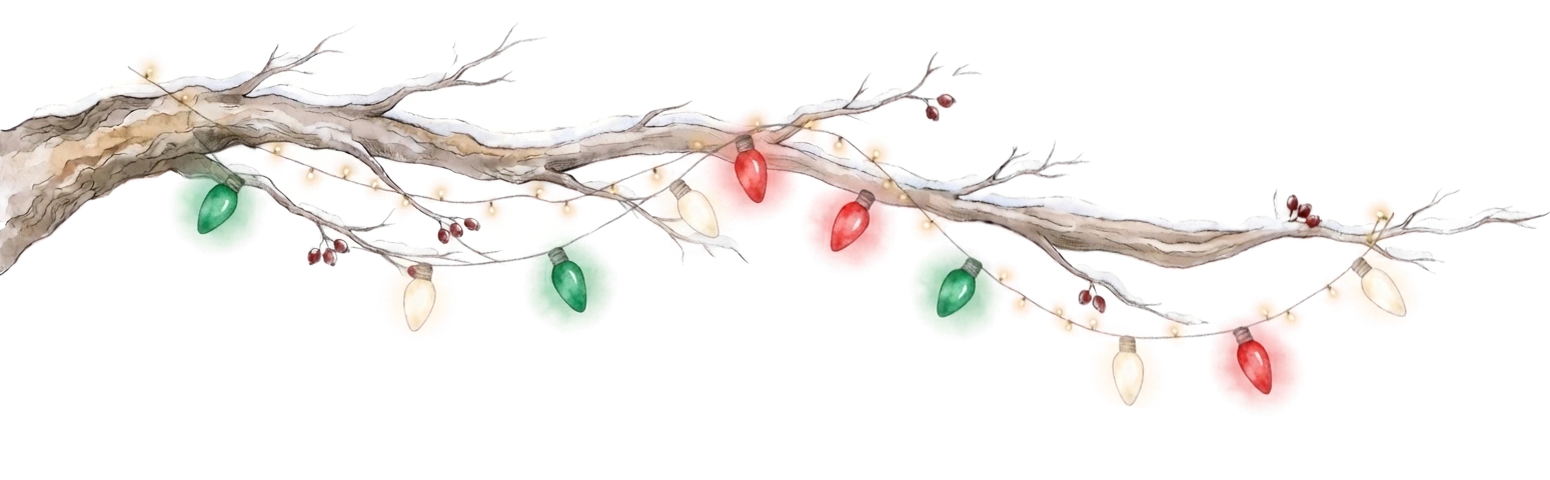
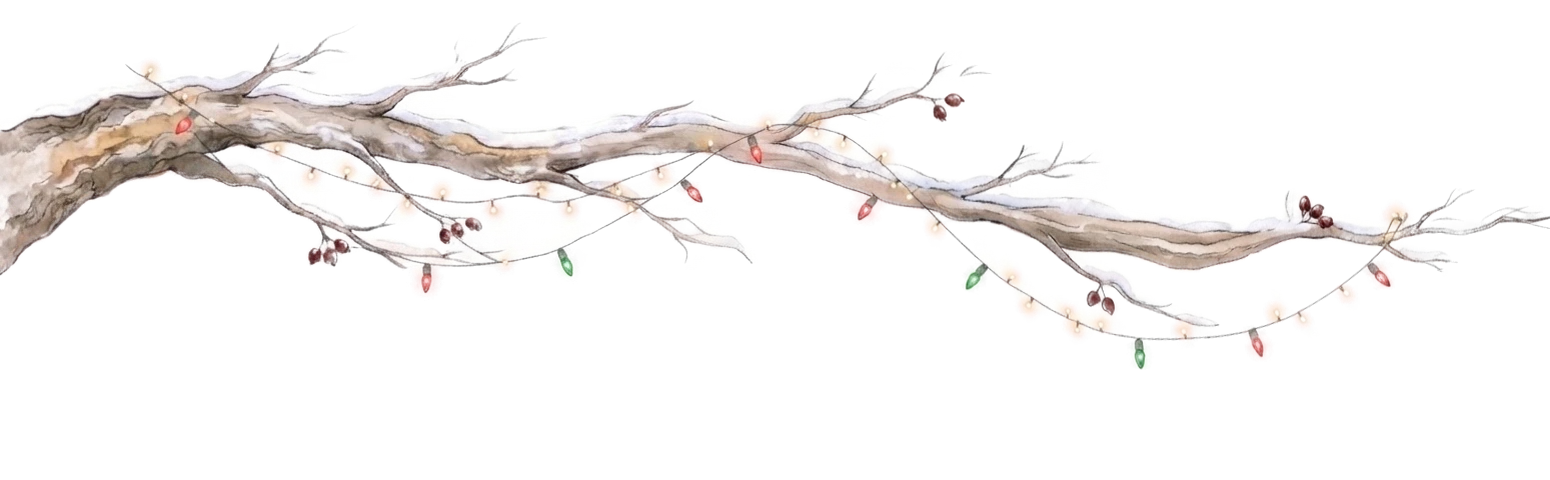
Little Hollow Christmas Day: smaller bulbs on the branch; the snowman stands taller to the right of the basket (the basket shifts left that day to make room)
Claude-Session: https://claude.ai/code/session_019MTJUgo2eSoe3fVWqeMEns

diff --git a/index.html b/index.html
@@ -13,7 +13,7 @@
 <link rel="apple-touch-icon" href="apple-touch-icon.png">
 <link rel="icon" type="image/png" href="apple-touch-icon.png">
 <style>html,body{background:#252D2C;height:100%;margin:0}</style>
-<script>window.__plannerBuild = 'Nov 25, 4:40 PM';</script>
+<script>window.__plannerBuild = 'Nov 25, 4:46 PM';</script>
 <script src="dc-runtime.js"></script>
 </head>
 <body>
@@ -5750,7 +5750,7 @@ class Component extends DCLogic {
   // Theme accent colors are CSS variables (--tXXXXXX, named after the Flowery color they replace).
   // Theme packages: each is a self-contained theme.json (+ art) — built-in ones are bundled below; later, downloaded ones join the same list.
   themePackages() {
-    if (!this._pkgs) { this._pkgs = {}; const arr = /*THEME-PACKAGES*/[{"format":1,"id":"littlehollow","version":12,"kind":"storybook","updated":"2026-11-25","notes":["Spring blossom set","A squirrel on the branch","New friend: a robin who fluffs and shakes, then lets a blossom fall","New friend: a hedgehog by the basket who sniffs and smiles when a blossom lands","New friend: a caterpillar on the branch who reaches up and nudges a blossom loose","New friend: a bee who loops around her flower while a blossom drifts down","The basket under the branch fills with blossoms as you finish the day's Must do and Should do, and starts fresh each morning","Winter: a snowy branch with red berries, a snowy meadow, and a basket that fills with pinecones (December to February)","New winter friends: a chickadee who puffs up against the cold, and a bunny in a scarf whose ears perk up","More winter friends: a cardinal who hops, a sleepy bear cub who peeks with one eye, and a fox curled in her tail","Christmas: fairy lights on Christmas Eve; colorful lights and a snowman friend on Christmas Day"],"name":"Little Hollow","blurb":"A little tree, a meadow and woodland friends who visit as the seasons change.","storybook":true,"perks":["Animated","Changes with the seasons","Rotating animal friends"],"card":"card.webp","art":"img","binder":{"cover":"linen","rings":"brass"},"tabPal":["#B06F80","#879A76","#9C8270","#B48A5A","#7E5A6E"],"tabs":{"day":["#F4D9DE","#A0526A"],"week":["#F6DCCB","#B5683F"],"month":["#DCE6D3","#5E7F55"],"desk":["#F3E6B8","#8F7020"],"goals":["#E4DAEE","#6E5A94"],"school":["#D6E2EC","#4C6F8F"],"journal":["#ECD6E0","#8A4E6B"]},"vars":{"FBEDEE":"#F6EEE9","F6EDEF":"#F5EFEA","FAEAEE":"#F6EDE8","F3E6EA":"#F1E8E3","E2B9C4":"#DCC6BF","E7B7C2":"#DFC8C1","EBC3CD":"#E6D2CB"},"swatches":{"red":["Blossom","#B5707A"],"yellow":["Honey","#C29A4E"],"blue":["Dusk","#7A8FA6"],"green":["Sage","#879A76"],"orange":["Acorn","#B5835A"],"gray":["Taupe","#9C8270"]},"catSwatches":{"blue":["Dusk","#6E86A0"],"orange":["Acorn","#B07A52"],"green":["Sage","#77906A"],"rose":["Blossom","#A8667A"],"plum":["Plum","#6E2F43"],"gold":["Honey","#A88A44"],"teal":["Moss","#5E8E88"],"lavender":["Lilac","#8A779E"],"slate":["Stone","#7E7A74"],"brown":["Bark","#8A6A50"]},"fHead":"'Olesia', 'Dancing Script', Georgia, serif","fBody":"'Atkinson Hyperlegible', system-ui, -apple-system, sans-serif","fontFace":{"family":"Olesia","file":"olesia.woff2"},"paper":"#FBF7F1","quote":"Every blossom opens in its own time, and so will you.","quotes":["Every blossom opens in its own time, and so will you.","Small steps still bloom.","Tend to today. Tomorrow will keep.","Rest is part of growing.","One petal at a time.","You are allowed to go slowly.","Plant one good thing today."],"img":{"dir":"themes/littlehollow/","paper":"paper.webp"},"scene":{"sets":[{"id":"spring-blossom","name":"Spring blossom","months":[],"perch":0.89,"under":[{"page":"L","anchor":"spread","src":"branch-2.webp","ar":4.068,"h":226,"y":-26,"padH":190},{"page":"R","anchor":"spread","src":"branch-2.webp","ar":4.068,"h":226,"y":-26,"padH":190},{"page":"L","anchor":"spreadBottom","src":"grass.webp","h":96,"y":0},{"page":"R","anchor":"spreadBottom","src":"grass.webp","h":96,"y":0}],"extras":[{"page":"R","anchor":"bl","src":"snail.webp","w":34,"h":25,"x":300,"y":4},{"page":"R","anchor":"bl","src":"bee.webp","w":26,"h":23,"x":250,"y":58}],"pile":{"page":"R","anchor":"underPerch","x":120,"y":2,"w":84,"h":106,"states":[{"src":"basket-spring-0.webp","pct":0},{"src":"basket-spring-1.webp","pct":1},{"src":"basket-spring-2.webp","pct":34},{"src":"basket-spring-3.webp","pct":67},{"src":"basket-spring-4.webp","pct":100}],"dx":-58,"per":"day"},"item":{"name":"blossom","src":"blossom.webp","w":18,"h":17},"driftY":118},{"id":"winter-snow","name":"Winter snow","months":[12,1,2],"perch":0.89,"under":[{"page":"L","anchor":"spread","src":"branch-winter.webp","ar":4.068,"h":226,"y":-26,"padH":190},{"page":"R","anchor":"spread","src":"branch-winter.webp","ar":4.068,"h":226,"y":-26,"padH":190},{"page":"L","anchor":"spreadBottom","src":"grass-winter.webp","h":104,"y":0},{"page":"R","anchor":"spreadBottom","src":"grass-winter.webp","h":104,"y":0}],"extras":[],"pile":{"page":"R","anchor":"underPerch","x":120,"y":2,"w":84,"h":106,"states":[{"src":"basket-winter-0.webp","pct":0},{"src":"basket-winter-1.webp","pct":1},{"src":"basket-winter-2.webp","pct":34},{"src":"basket-winter-3.webp","pct":67},{"src":"basket-winter-4.webp","pct":100}],"dx":-58,"per":"day"},"item":{"name":"pinecone","src":"pinecone.webp","w":15,"h":17},"driftY":118,"quotes":["Rest is part of the season too.","Even bare branches are getting ready to bloom.","Slow and cozy still counts.","Small steps leave footprints in the snow.","Keep a little warmth for yourself today.","Quiet days are growing days.","One pinecone at a time."]}],"casts":[{"id":"squirrels","name":"A squirrel on the branch","over":[{"page":"R","anchor":"onStrip","src":"squirrel-toss-empty.webp","w":126,"h":74,"x":56,"y":54,"holds":{"x":-2,"y":49}}],"moment":"drop","sets":["autumn-leaves"]},{"id":"bee","name":"A bee and her flower","over":[{"page":"R","anchor":"bl","src":"bee-flower.webp","w":36,"h":102,"x":150,"y":4},{"page":"R","anchor":"bl","src":"bee-wings-up.webp","srcFlap":"bee-wings-down.webp","w":34,"h":33,"x":166,"y":86,"buzz":true}],"hide":["bee.webp"],"sets":["spring-blossom"]},{"id":"robin","name":"A robin on the branch","moment":"drop","over":[{"page":"R","anchor":"onStrip","src":"robin-1.webp","srcFlap":"robin-2.webp","shake":true,"w":90,"h":78,"x":56,"y":53,"holds":{"x":6,"y":21}}],"sets":["spring-blossom"]},{"id":"hedgehog","name":"A hedgehog by the basket","over":[{"page":"R","anchor":"byPile","src":"hedgehog-1.webp","w":66,"h":48,"x":6,"y":3,"frames":[{"src":"hedgehog-2.webp","from":1.3,"to":2.3},{"src":"hedgehog-3.webp","from":2.3,"to":3.4}]}],"hide":["snail.webp"],"sets":["spring-blossom"]},{"id":"caterpillar","name":"A caterpillar on the branch","dropDelay":0.75,"over":[{"page":"R","anchor":"onStrip","src":"caterpillar-1.webp","w":74,"h":61,"x":56,"y":69,"frames":[{"src":"caterpillar-2.webp","from":0.05,"to":1.0},{"src":"caterpillar-3.webp","from":1.0,"to":2.7}]}],"nudge":{"x":58,"y":46},"sets":["spring-blossom"]},{"id":"chickadee","name":"A chickadee on the branch","moment":"drop","sets":["winter-snow"],"over":[{"page":"R","anchor":"onStrip","src":"chickadee-1.webp","srcFlap":"chickadee-2.webp","shake":true,"w":84,"h":57,"x":56,"y":61,"holds":{"x":0,"y":8}}]},{"id":"bear","name":"A sleepy bear cub","sets":["winter-snow"],"over":[{"page":"R","anchor":"byPile","src":"bear-1.webp","w":82,"h":55,"x":6,"y":3,"frames":[{"src":"bear-2.webp","from":1.3,"to":2.3},{"src":"bear-3.webp","from":2.3,"to":3.4}]}]},{"id":"cardinal","name":"A cardinal on the branch","moment":"drop","sets":["winter-snow"],"dropDelay":0.1,"over":[{"page":"R","anchor":"onStrip","src":"cardinal-1.webp","w":90,"h":72,"x":56,"y":46,"holds":{"x":-4,"y":29},"xfade":0.08,"frames":[{"src":"cardinal-2.webp","from":0.0,"to":0.4},{"src":"cardinal-3.webp","from":0.4,"to":1.3}]}]},{"id":"bunny","name":"A bunny in a scarf","sets":["winter-snow"],"over":[{"page":"R","anchor":"byPile","src":"bunny-1.webp","w":64,"h":73,"x":6,"y":3,"frames":[{"src":"bunny-2.webp","from":1.3,"to":2.3},{"src":"bunny-3.webp","from":2.3,"to":3.4}]}]},{"id":"fox","name":"A fox curled in her tail","sets":["winter-snow"],"over":[{"page":"R","anchor":"byPile","src":"fox-1.webp","w":82,"h":73,"x":6,"y":3,"frames":[{"src":"fox-2.webp","from":1.3,"to":2.3},{"src":"fox-3.webp","from":2.3,"to":3.4}]}]},{"id":"snowman","name":"A snowman (Christmas Day)","sets":[],"over":[{"page":"R","anchor":"byPile","src":"snowman-1.webp","w":60,"h":89,"x":4,"y":3,"frames":[{"src":"snowman-2.webp","from":1.3,"to":2.3},{"src":"snowman-3.webp","from":2.3,"to":3.4}]}]}],"quote":"underDate","quoteClear":170,"quoteY":88,"specials":[{"id":"christmas-eve","name":"Christmas Eve","date":"12-24","sets":["winter-snow"],"swap":{"branch-winter.webp":{"src":"branch-xmas-eve.webp","ar":3.229,"h":285}},"quotes":["The quietest night is full of little lights."]},{"id":"christmas","name":"Christmas Day","date":"12-25","sets":["winter-snow"],"cast":"snowman","swap":{"branch-winter.webp":{"src":"branch-xmas-day.webp","ar":3.229,"h":285,"padH":262}},"quotes":["Merry Christmas. Rest is a gift too."]}]}}]/*END-THEME-PACKAGES*/; arr.forEach(p => { this._pkgs[p.id] = p; }); }
+    if (!this._pkgs) { this._pkgs = {}; const arr = /*THEME-PACKAGES*/[{"format":1,"id":"littlehollow","version":12,"kind":"storybook","updated":"2026-11-25","notes":["Spring blossom set","A squirrel on the branch","New friend: a robin who fluffs and shakes, then lets a blossom fall","New friend: a hedgehog by the basket who sniffs and smiles when a blossom lands","New friend: a caterpillar on the branch who reaches up and nudges a blossom loose","New friend: a bee who loops around her flower while a blossom drifts down","The basket under the branch fills with blossoms as you finish the day's Must do and Should do, and starts fresh each morning","Winter: a snowy branch with red berries, a snowy meadow, and a basket that fills with pinecones (December to February)","New winter friends: a chickadee who puffs up against the cold, and a bunny in a scarf whose ears perk up","More winter friends: a cardinal who hops, a sleepy bear cub who peeks with one eye, and a fox curled in her tail","Christmas: fairy lights on Christmas Eve; colorful lights and a snowman friend on Christmas Day"],"name":"Little Hollow","blurb":"A little tree, a meadow and woodland friends who visit as the seasons change.","storybook":true,"perks":["Animated","Changes with the seasons","Rotating animal friends"],"card":"card.webp","art":"img","binder":{"cover":"linen","rings":"brass"},"tabPal":["#B06F80","#879A76","#9C8270","#B48A5A","#7E5A6E"],"tabs":{"day":["#F4D9DE","#A0526A"],"week":["#F6DCCB","#B5683F"],"month":["#DCE6D3","#5E7F55"],"desk":["#F3E6B8","#8F7020"],"goals":["#E4DAEE","#6E5A94"],"school":["#D6E2EC","#4C6F8F"],"journal":["#ECD6E0","#8A4E6B"]},"vars":{"FBEDEE":"#F6EEE9","F6EDEF":"#F5EFEA","FAEAEE":"#F6EDE8","F3E6EA":"#F1E8E3","E2B9C4":"#DCC6BF","E7B7C2":"#DFC8C1","EBC3CD":"#E6D2CB"},"swatches":{"red":["Blossom","#B5707A"],"yellow":["Honey","#C29A4E"],"blue":["Dusk","#7A8FA6"],"green":["Sage","#879A76"],"orange":["Acorn","#B5835A"],"gray":["Taupe","#9C8270"]},"catSwatches":{"blue":["Dusk","#6E86A0"],"orange":["Acorn","#B07A52"],"green":["Sage","#77906A"],"rose":["Blossom","#A8667A"],"plum":["Plum","#6E2F43"],"gold":["Honey","#A88A44"],"teal":["Moss","#5E8E88"],"lavender":["Lilac","#8A779E"],"slate":["Stone","#7E7A74"],"brown":["Bark","#8A6A50"]},"fHead":"'Olesia', 'Dancing Script', Georgia, serif","fBody":"'Atkinson Hyperlegible', system-ui, -apple-system, sans-serif","fontFace":{"family":"Olesia","file":"olesia.woff2"},"paper":"#FBF7F1","quote":"Every blossom opens in its own time, and so will you.","quotes":["Every blossom opens in its own time, and so will you.","Small steps still bloom.","Tend to today. Tomorrow will keep.","Rest is part of growing.","One petal at a time.","You are allowed to go slowly.","Plant one good thing today."],"img":{"dir":"themes/littlehollow/","paper":"paper.webp"},"scene":{"sets":[{"id":"spring-blossom","name":"Spring blossom","months":[],"perch":0.89,"under":[{"page":"L","anchor":"spread","src":"branch-2.webp","ar":4.068,"h":226,"y":-26,"padH":190},{"page":"R","anchor":"spread","src":"branch-2.webp","ar":4.068,"h":226,"y":-26,"padH":190},{"page":"L","anchor":"spreadBottom","src":"grass.webp","h":96,"y":0},{"page":"R","anchor":"spreadBottom","src":"grass.webp","h":96,"y":0}],"extras":[{"page":"R","anchor":"bl","src":"snail.webp","w":34,"h":25,"x":300,"y":4},{"page":"R","anchor":"bl","src":"bee.webp","w":26,"h":23,"x":250,"y":58}],"pile":{"page":"R","anchor":"underPerch","x":120,"y":2,"w":84,"h":106,"states":[{"src":"basket-spring-0.webp","pct":0},{"src":"basket-spring-1.webp","pct":1},{"src":"basket-spring-2.webp","pct":34},{"src":"basket-spring-3.webp","pct":67},{"src":"basket-spring-4.webp","pct":100}],"dx":-58,"per":"day"},"item":{"name":"blossom","src":"blossom.webp","w":18,"h":17},"driftY":118},{"id":"winter-snow","name":"Winter snow","months":[12,1,2],"perch":0.89,"under":[{"page":"L","anchor":"spread","src":"branch-winter.webp","ar":4.068,"h":226,"y":-26,"padH":190},{"page":"R","anchor":"spread","src":"branch-winter.webp","ar":4.068,"h":226,"y":-26,"padH":190},{"page":"L","anchor":"spreadBottom","src":"grass-winter.webp","h":104,"y":0},{"page":"R","anchor":"spreadBottom","src":"grass-winter.webp","h":104,"y":0}],"extras":[],"pile":{"page":"R","anchor":"underPerch","x":120,"y":2,"w":84,"h":106,"states":[{"src":"basket-winter-0.webp","pct":0},{"src":"basket-winter-1.webp","pct":1},{"src":"basket-winter-2.webp","pct":34},{"src":"basket-winter-3.webp","pct":67},{"src":"basket-winter-4.webp","pct":100}],"dx":-58,"per":"day"},"item":{"name":"pinecone","src":"pinecone.webp","w":15,"h":17},"driftY":118,"quotes":["Rest is part of the season too.","Even bare branches are getting ready to bloom.","Slow and cozy still counts.","Small steps leave footprints in the snow.","Keep a little warmth for yourself today.","Quiet days are growing days.","One pinecone at a time."]}],"casts":[{"id":"squirrels","name":"A squirrel on the branch","over":[{"page":"R","anchor":"onStrip","src":"squirrel-toss-empty.webp","w":126,"h":74,"x":56,"y":54,"holds":{"x":-2,"y":49}}],"moment":"drop","sets":["autumn-leaves"]},{"id":"bee","name":"A bee and her flower","over":[{"page":"R","anchor":"bl","src":"bee-flower.webp","w":36,"h":102,"x":150,"y":4},{"page":"R","anchor":"bl","src":"bee-wings-up.webp","srcFlap":"bee-wings-down.webp","w":34,"h":33,"x":166,"y":86,"buzz":true}],"hide":["bee.webp"],"sets":["spring-blossom"]},{"id":"robin","name":"A robin on the branch","moment":"drop","over":[{"page":"R","anchor":"onStrip","src":"robin-1.webp","srcFlap":"robin-2.webp","shake":true,"w":90,"h":78,"x":56,"y":53,"holds":{"x":6,"y":21}}],"sets":["spring-blossom"]},{"id":"hedgehog","name":"A hedgehog by the basket","over":[{"page":"R","anchor":"byPile","src":"hedgehog-1.webp","w":66,"h":48,"x":6,"y":3,"frames":[{"src":"hedgehog-2.webp","from":1.3,"to":2.3},{"src":"hedgehog-3.webp","from":2.3,"to":3.4}]}],"hide":["snail.webp"],"sets":["spring-blossom"]},{"id":"caterpillar","name":"A caterpillar on the branch","dropDelay":0.75,"over":[{"page":"R","anchor":"onStrip","src":"caterpillar-1.webp","w":74,"h":61,"x":56,"y":69,"frames":[{"src":"caterpillar-2.webp","from":0.05,"to":1.0},{"src":"caterpillar-3.webp","from":1.0,"to":2.7}]}],"nudge":{"x":58,"y":46},"sets":["spring-blossom"]},{"id":"chickadee","name":"A chickadee on the branch","moment":"drop","sets":["winter-snow"],"over":[{"page":"R","anchor":"onStrip","src":"chickadee-1.webp","srcFlap":"chickadee-2.webp","shake":true,"w":84,"h":57,"x":56,"y":61,"holds":{"x":0,"y":8}}]},{"id":"bear","name":"A sleepy bear cub","sets":["winter-snow"],"over":[{"page":"R","anchor":"byPile","src":"bear-1.webp","w":82,"h":55,"x":6,"y":3,"frames":[{"src":"bear-2.webp","from":1.3,"to":2.3},{"src":"bear-3.webp","from":2.3,"to":3.4}]}]},{"id":"cardinal","name":"A cardinal on the branch","moment":"drop","sets":["winter-snow"],"dropDelay":0.1,"over":[{"page":"R","anchor":"onStrip","src":"cardinal-1.webp","w":90,"h":72,"x":56,"y":46,"holds":{"x":-4,"y":29},"xfade":0.08,"frames":[{"src":"cardinal-2.webp","from":0.0,"to":0.4},{"src":"cardinal-3.webp","from":0.4,"to":1.3}]}]},{"id":"bunny","name":"A bunny in a scarf","sets":["winter-snow"],"over":[{"page":"R","anchor":"byPile","src":"bunny-1.webp","w":64,"h":73,"x":6,"y":3,"frames":[{"src":"bunny-2.webp","from":1.3,"to":2.3},{"src":"bunny-3.webp","from":2.3,"to":3.4}]}]},{"id":"fox","name":"A fox curled in her tail","sets":["winter-snow"],"over":[{"page":"R","anchor":"byPile","src":"fox-1.webp","w":82,"h":73,"x":6,"y":3,"frames":[{"src":"fox-2.webp","from":1.3,"to":2.3},{"src":"fox-3.webp","from":2.3,"to":3.4}]}]},{"id":"snowman","name":"A snowman (Christmas Day)","sets":[],"over":[{"page":"R","anchor":"byPileR","src":"snowman-1.webp","w":104,"h":154,"x":8,"y":2,"frames":[{"src":"snowman-2.webp","from":1.3,"to":2.3},{"src":"snowman-3.webp","from":2.3,"to":3.4}]}]}],"quote":"underDate","quoteClear":170,"quoteY":88,"specials":[{"id":"christmas-eve","name":"Christmas Eve","date":"12-24","sets":["winter-snow"],"swap":{"branch-winter.webp":{"src":"branch-xmas-eve.webp","ar":3.229,"h":285}},"quotes":["The quietest night is full of little lights."]},{"id":"christmas","name":"Christmas Day","date":"12-25","sets":["winter-snow"],"cast":"snowman","swap":{"branch-winter.webp":{"src":"branch-xmas-day.webp","ar":3.229,"h":285,"padH":240}},"quotes":["Merry Christmas. Rest is a gift too."],"pile":{"dx":-150}}]}}]/*END-THEME-PACKAGES*/; arr.forEach(p => { this._pkgs[p.id] = p; }); }
     return this._pkgs;
   }
   themeDef(id) {
@@ -5881,6 +5881,11 @@ class Component extends DCLogic {
         // sits on the strip at a set point along it, so it stays on the branch at any width
         const w = P(ly.w), left = Math.min(geo.rw - w - P(8), Math.round(sW * (ly.at || sc.perch || 0.85) - (geo.lw + geo.gap) - w / 2));
         Object.assign(b, { l: px(left), t: y, w: px(w), h: px(P(ly.h)), bg: url + ' left top / contain no-repeat', _left: left, _w: w });
+      } else if (ly.anchor === 'byPileR') {
+        // stands on the grass just right of the basket (x = how far it tucks in toward the basket)
+        const w = P(ly.w);
+        Object.assign(b, { b: y, w: px(w), h: px(P(ly.h)), bg: url + ' left bottom / contain no-repeat' });
+        if (bL != null) b.l = px(bL + bw - P(ly.x || 0)); else b.r = px(Math.max(0, bR - w + P(ly.x || 0)));
       } else if (ly.anchor === 'byPile') {
         // sits on the grass just left of the basket, facing it (x = how far it tucks in toward the basket)
         const w = P(ly.w);
@@ -6018,7 +6023,7 @@ class Component extends DCLogic {
     const sp = (sc.specials || []).find(x => x.date === md && (!x.sets || x.sets.indexOf(set.id) >= 0));
     if (sp && sp.cast) { const c = (sc.casts || []).find(x => x.id === sp.cast); if (c) cast = c; }
     const swapU = (list) => sp && sp.swap ? list.map(ly => sp.swap[ly.src] ? Object.assign({}, ly, sp.swap[ly.src]) : ly) : list;
-    return Object.assign({}, sc, { special: sp ? sp.id : null, perch: set.perch, under: swapU((set.under || []).concat(cast.under || [])), over: (set.extras || []).filter(x => (cast.hide || []).indexOf(x.src) < 0).concat((cast.over || []).map(x => Object.assign({ _friend: true }, x))), pile: set.pile || null, item: set.item || null, quotes: (sp && sp.quotes) || set.quotes || null, driftY: set.driftY, dropDelay: cast.dropDelay || 0, nudge: cast.nudge || null, moment: cast.moment || 'drift' });
+    return Object.assign({}, sc, { special: sp ? sp.id : null, perch: set.perch, under: swapU((set.under || []).concat(cast.under || [])), over: (set.extras || []).filter(x => (cast.hide || []).indexOf(x.src) < 0).concat((cast.over || []).map(x => Object.assign({ _friend: true }, x))), pile: sp && sp.pile && set.pile ? Object.assign({}, set.pile, sp.pile) : (set.pile || null), item: set.item || null, quotes: (sp && sp.quotes) || set.quotes || null, driftY: set.driftY, dropDelay: cast.dropDelay || 0, nudge: cast.nudge || null, moment: cast.moment || 'drift' });
   }
   // How far the top strip hangs down, so the Day page content starts below it (it scales with the screen like the art).
   sceneTopPad(s) {
@@ -6095,7 +6100,7 @@ class Component extends DCLogic {
   // Art for image themes: files next to the GitHub page, or the claude.ai copy's uploaded assets.
   themeAsset(t, name) {
     if (!t || !t.img || !name) return '';
-    const map = {'themes/littlehollow/branch-xmas-eve.webp': '/_blob/44426b48af916f7d7d9f67375cb90120', 'themes/littlehollow/branch-xmas-day.webp': '/_blob/da672c8702086cbe563b3844d3c82b36', 'themes/littlehollow/snowman-1.webp': '/_blob/d68540ae70b815263989c9c240cd5c21', 'themes/littlehollow/snowman-2.webp': '/_blob/2443f0316c57b86875f251437a693488', 'themes/littlehollow/snowman-3.webp': '/_blob/021d47548a77d99bdebc44f974d130e9', 'themes/littlehollow/cardinal-1.webp': '/_blob/f87efe860c828a49e8a13f733b86e1ad', 'themes/littlehollow/cardinal-2.webp': '/_blob/27dd1f20cfdb4cf7fe59a80b8ee79477', 'themes/littlehollow/cardinal-3.webp': '/_blob/d18eebf31d7e0f37729b85c4b54ef8b1', 'themes/littlehollow/bear-1.webp': '/_blob/eb8e5fe69c39930fef272ba09fb84a14', 'themes/littlehollow/bear-2.webp': '/_blob/4e98a489ad36942b2911a6eb746619c2', 'themes/littlehollow/bear-3.webp': '/_blob/f2182fedb0224f3ee862cc35a594c0e1', 'themes/littlehollow/fox-1.webp': '/_blob/ecf84b53f0b68493985948376c2a374c', 'themes/littlehollow/fox-2.webp': '/_blob/96df9cff7d32465df5e67ef21806dff7', 'themes/littlehollow/fox-3.webp': '/_blob/29872bac567f501177b9ae6bb756cd13', 'themes/littlehollow/chickadee-1.webp': '/_blob/73ae8107938f099f2bcd5d399a622b0a', 'themes/littlehollow/chickadee-2.webp': '/_blob/bb9337ef2318399b0d2961f5571fa689', 'themes/littlehollow/bunny-1.webp': '/_blob/fe466a1c9f749ebc176f75d4ef220f8f', 'themes/littlehollow/bunny-2.webp': '/_blob/8a0265397929f52502f8ba2c23024b91', 'themes/littlehollow/bunny-3.webp': '/_blob/95d0173859265e7772d4213e2a03d7d3', 'themes/littlehollow/branch-winter.webp': '/_blob/9ae8759ac2b36b859614d3b10dfcd146', 'themes/littlehollow/grass-winter.webp': '/_blob/9f84054aff6d19862d5bae357770677d', 'themes/littlehollow/basket-winter-0.webp': '/_blob/190bfe8b1767697a1137268be6162011', 'themes/littlehollow/basket-winter-1.webp': '/_blob/250a9fdc4250f8d8f34a5a0606df35df', 'themes/littlehollow/basket-winter-2.webp': '/_blob/8ceb58683e687d9d1758383bc434b12b', 'themes/littlehollow/basket-winter-3.webp': '/_blob/562ebab1459485c42d0785b87e3d0906', 'themes/littlehollow/basket-winter-4.webp': '/_blob/b075b3df3362cec9625bacdd2f9b9cab', 'themes/littlehollow/pinecone.webp': '/_blob/cc5c689cc994221d5caa26dbda8a20b0', 'themes/littlehollow/caterpillar-1.webp': '/_blob/8f03361eadd705f5ff76490c19b5af38', 'themes/littlehollow/caterpillar-2.webp': '/_blob/aeed3f219cdabd006e580239430d0273', 'themes/littlehollow/caterpillar-3.webp': '/_blob/4d34aa3a0cff649c80ba81a8015b85e3', 'themes/littlehollow/hedgehog-1.webp': '/_blob/fea6e90b1200efaa286bf1cd6ab30a77', 'themes/littlehollow/hedgehog-2.webp': '/_blob/16f1d7d309a61018b894a78d0e9235e3', 'themes/littlehollow/hedgehog-3.webp': '/_blob/1a0ad11e95383949aba4b09abfb9aedf', 'themes/littlehollow/robin-1.webp': '/_blob/bc72ba2cac85c84230db500a009f0ec8', 'themes/littlehollow/robin-2.webp': '/_blob/be7d07e3b0f312d2d19d32c4fe46b26f', 'themes/littlehollow/basket-spring-0.webp': '/_blob/3b99a6ba96d5aa1e67a02b8ee08edbf3', 'themes/littlehollow/basket-spring-1.webp': '/_blob/82f81fc6766f23dbbc551b6d425529a5', 'themes/littlehollow/basket-spring-2.webp': '/_blob/17dca4a3a05f3f06247a2182e69a7222', 'themes/littlehollow/basket-spring-3.webp': '/_blob/6b8e3fa72d7ecf4eb4fffeb5af16e05d', 'themes/littlehollow/basket-spring-4.webp': '/_blob/bb4fb293dce66d1fac54662c959a6c41', 'themes/littlehollow/blossom.webp': '/_blob/81fe4d34bae56b7ff62567d8ca6fc554', 'themes/littlehollow/branch-2.webp': '/_blob/dbc7ee62000ddb4c1d0cc39dceb5ce0e', 'themes/littlehollow/paper.webp': '/_blob/d360c2c28dcce6ffb6783f982edf204d', 'themes/littlehollow/olesia.woff2': '/_blob/de8e491310b592e078c879c16cca8755', 'themes/littlehollow/basket-0.webp': '/_blob/b281d1479ab5466a0c8986e9e0a33e94', 'themes/littlehollow/basket-1.webp': '/_blob/4f34d59fa5523b976b0a7319bed68bb1', 'themes/littlehollow/basket-2.webp': '/_blob/02b255a0912194b54ce8b69966240976', 'themes/littlehollow/basket-3.webp': '/_blob/2536f5b7d751fcc93dcabd4a64fe635b', 'themes/littlehollow/basket-4.webp': '/_blob/bd9bae022cd19d703ba8413be852102b', 'themes/littlehollow/petal.webp': '/_blob/a00d08c0259492f8134bae3a3d6e484c', 'themes/littlehollow/bee-flower.webp': '/_blob/30c5455417b12e2c6b15f973fd881a90', 'themes/littlehollow/bee-wings-up.webp': '/_blob/b273b68a0475bc256a6ebbb2401becfc', 'themes/littlehollow/bee-wings-down.webp': '/_blob/da84d75741e82e9094f145f479539623', 'themes/littlehollow/card.webp': '/_blob/f8fb9d30a8146251bc0bac5869852ffc', 'themes/littlehollow/bee.webp': '/_blob/6f071e99b270820feeefd81ff2eac110', 'themes/littlehollow/snail.webp': '/_blob/d118efdf6604bf88239abdae1281e26f', 'themes/littlehollow/squirrel-toss-empty.webp': '/_blob/3a7278d2b5528719d1e5e8717b4fb982', 'themes/littlehollow/grass.webp': '/_blob/737124dd1f3448c0f709693450644293', 'themes/littlehollow/branch.webp': '/_blob/0569b8731a45d9736bf30a47aefb98fa', 'themes/littlehollow/acorn.webp': '/_blob/fd7694cdc68432a3a113a0800bcc8f44', 'themes/littlehollow/squirrel-toss.webp': '/_blob/3f3e33ac47e702c148d2981a351480ce', 'themes/littlehollow/squirrel-catch.webp': '/_blob/ae5421511bd271a1e52c55dff7b4b397'};
+    const map = {'themes/littlehollow/branch-xmas-eve.webp': '/_blob/44426b48af916f7d7d9f67375cb90120', 'themes/littlehollow/branch-xmas-day.webp': '/_blob/fc4cba30f0e16499c1f6c913f86c5c99', 'themes/littlehollow/snowman-1.webp': '/_blob/d68540ae70b815263989c9c240cd5c21', 'themes/littlehollow/snowman-2.webp': '/_blob/2443f0316c57b86875f251437a693488', 'themes/littlehollow/snowman-3.webp': '/_blob/021d47548a77d99bdebc44f974d130e9', 'themes/littlehollow/cardinal-1.webp': '/_blob/f87efe860c828a49e8a13f733b86e1ad', 'themes/littlehollow/cardinal-2.webp': '/_blob/27dd1f20cfdb4cf7fe59a80b8ee79477', 'themes/littlehollow/cardinal-3.webp': '/_blob/d18eebf31d7e0f37729b85c4b54ef8b1', 'themes/littlehollow/bear-1.webp': '/_blob/eb8e5fe69c39930fef272ba09fb84a14', 'themes/littlehollow/bear-2.webp': '/_blob/4e98a489ad36942b2911a6eb746619c2', 'themes/littlehollow/bear-3.webp': '/_blob/f2182fedb0224f3ee862cc35a594c0e1', 'themes/littlehollow/fox-1.webp': '/_blob/ecf84b53f0b68493985948376c2a374c', 'themes/littlehollow/fox-2.webp': '/_blob/96df9cff7d32465df5e67ef21806dff7', 'themes/littlehollow/fox-3.webp': '/_blob/29872bac567f501177b9ae6bb756cd13', 'themes/littlehollow/chickadee-1.webp': '/_blob/73ae8107938f099f2bcd5d399a622b0a', 'themes/littlehollow/chickadee-2.webp': '/_blob/bb9337ef2318399b0d2961f5571fa689', 'themes/littlehollow/bunny-1.webp': '/_blob/fe466a1c9f749ebc176f75d4ef220f8f', 'themes/littlehollow/bunny-2.webp': '/_blob/8a0265397929f52502f8ba2c23024b91', 'themes/littlehollow/bunny-3.webp': '/_blob/95d0173859265e7772d4213e2a03d7d3', 'themes/littlehollow/branch-winter.webp': '/_blob/9ae8759ac2b36b859614d3b10dfcd146', 'themes/littlehollow/grass-winter.webp': '/_blob/9f84054aff6d19862d5bae357770677d', 'themes/littlehollow/basket-winter-0.webp': '/_blob/190bfe8b1767697a1137268be6162011', 'themes/littlehollow/basket-winter-1.webp': '/_blob/250a9fdc4250f8d8f34a5a0606df35df', 'themes/littlehollow/basket-winter-2.webp': '/_blob/8ceb58683e687d9d1758383bc434b12b', 'themes/littlehollow/basket-winter-3.webp': '/_blob/562ebab1459485c42d0785b87e3d0906', 'themes/littlehollow/basket-winter-4.webp': '/_blob/b075b3df3362cec9625bacdd2f9b9cab', 'themes/littlehollow/pinecone.webp': '/_blob/cc5c689cc994221d5caa26dbda8a20b0', 'themes/littlehollow/caterpillar-1.webp': '/_blob/8f03361eadd705f5ff76490c19b5af38', 'themes/littlehollow/caterpillar-2.webp': '/_blob/aeed3f219cdabd006e580239430d0273', 'themes/littlehollow/caterpillar-3.webp': '/_blob/4d34aa3a0cff649c80ba81a8015b85e3', 'themes/littlehollow/hedgehog-1.webp': '/_blob/fea6e90b1200efaa286bf1cd6ab30a77', 'themes/littlehollow/hedgehog-2.webp': '/_blob/16f1d7d309a61018b894a78d0e9235e3', 'themes/littlehollow/hedgehog-3.webp': '/_blob/1a0ad11e95383949aba4b09abfb9aedf', 'themes/littlehollow/robin-1.webp': '/_blob/bc72ba2cac85c84230db500a009f0ec8', 'themes/littlehollow/robin-2.webp': '/_blob/be7d07e3b0f312d2d19d32c4fe46b26f', 'themes/littlehollow/basket-spring-0.webp': '/_blob/3b99a6ba96d5aa1e67a02b8ee08edbf3', 'themes/littlehollow/basket-spring-1.webp': '/_blob/82f81fc6766f23dbbc551b6d425529a5', 'themes/littlehollow/basket-spring-2.webp': '/_blob/17dca4a3a05f3f06247a2182e69a7222', 'themes/littlehollow/basket-spring-3.webp': '/_blob/6b8e3fa72d7ecf4eb4fffeb5af16e05d', 'themes/littlehollow/basket-spring-4.webp': '/_blob/bb4fb293dce66d1fac54662c959a6c41', 'themes/littlehollow/blossom.webp': '/_blob/81fe4d34bae56b7ff62567d8ca6fc554', 'themes/littlehollow/branch-2.webp': '/_blob/dbc7ee62000ddb4c1d0cc39dceb5ce0e', 'themes/littlehollow/paper.webp': '/_blob/d360c2c28dcce6ffb6783f982edf204d', 'themes/littlehollow/olesia.woff2': '/_blob/de8e491310b592e078c879c16cca8755', 'themes/littlehollow/basket-0.webp': '/_blob/b281d1479ab5466a0c8986e9e0a33e94', 'themes/littlehollow/basket-1.webp': '/_blob/4f34d59fa5523b976b0a7319bed68bb1', 'themes/littlehollow/basket-2.webp': '/_blob/02b255a0912194b54ce8b69966240976', 'themes/littlehollow/basket-3.webp': '/_blob/2536f5b7d751fcc93dcabd4a64fe635b', 'themes/littlehollow/basket-4.webp': '/_blob/bd9bae022cd19d703ba8413be852102b', 'themes/littlehollow/petal.webp': '/_blob/a00d08c0259492f8134bae3a3d6e484c', 'themes/littlehollow/bee-flower.webp': '/_blob/30c5455417b12e2c6b15f973fd881a90', 'themes/littlehollow/bee-wings-up.webp': '/_blob/b273b68a0475bc256a6ebbb2401becfc', 'themes/littlehollow/bee-wings-down.webp': '/_blob/da84d75741e82e9094f145f479539623', 'themes/littlehollow/card.webp': '/_blob/f8fb9d30a8146251bc0bac5869852ffc', 'themes/littlehollow/bee.webp': '/_blob/6f071e99b270820feeefd81ff2eac110', 'themes/littlehollow/snail.webp': '/_blob/d118efdf6604bf88239abdae1281e26f', 'themes/littlehollow/squirrel-toss-empty.webp': '/_blob/3a7278d2b5528719d1e5e8717b4fb982', 'themes/littlehollow/grass.webp': '/_blob/737124dd1f3448c0f709693450644293', 'themes/littlehollow/branch.webp': '/_blob/0569b8731a45d9736bf30a47aefb98fa', 'themes/littlehollow/acorn.webp': '/_blob/fd7694cdc68432a3a113a0800bcc8f44', 'themes/littlehollow/squirrel-toss.webp': '/_blob/3f3e33ac47e702c148d2981a351480ce', 'themes/littlehollow/squirrel-catch.webp': '/_blob/ae5421511bd271a1e52c55dff7b4b397'};
     if (typeof window !== 'undefined' && window.__plannerBuild) return t.img.dir + name;
     return map[t.img.dir + name] || '';
   }
